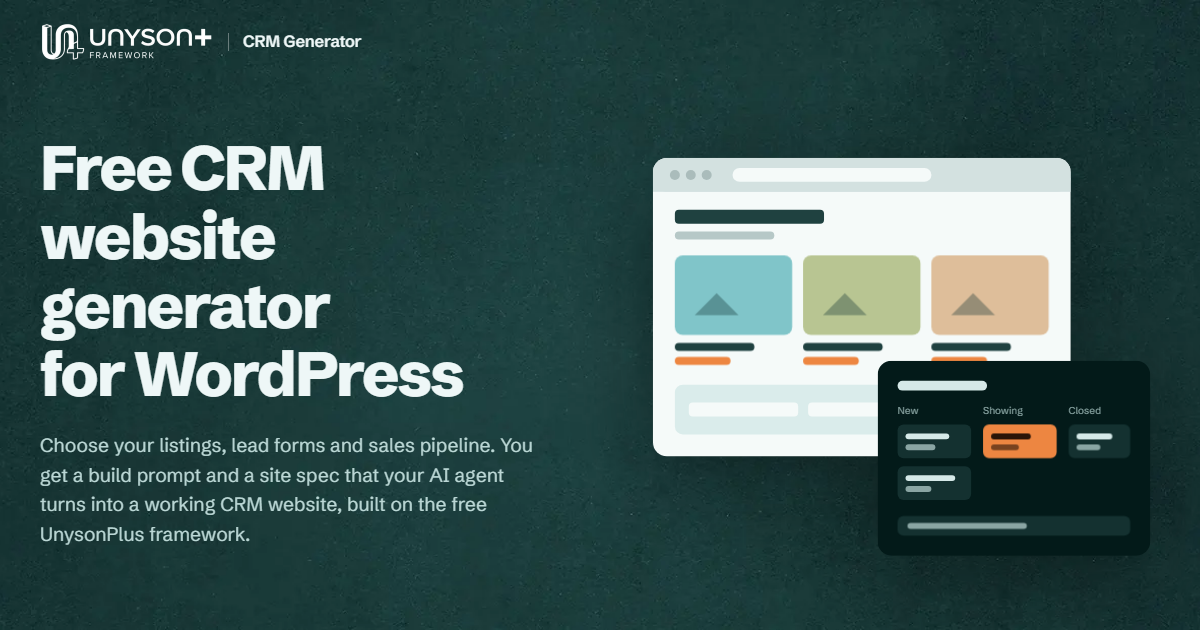
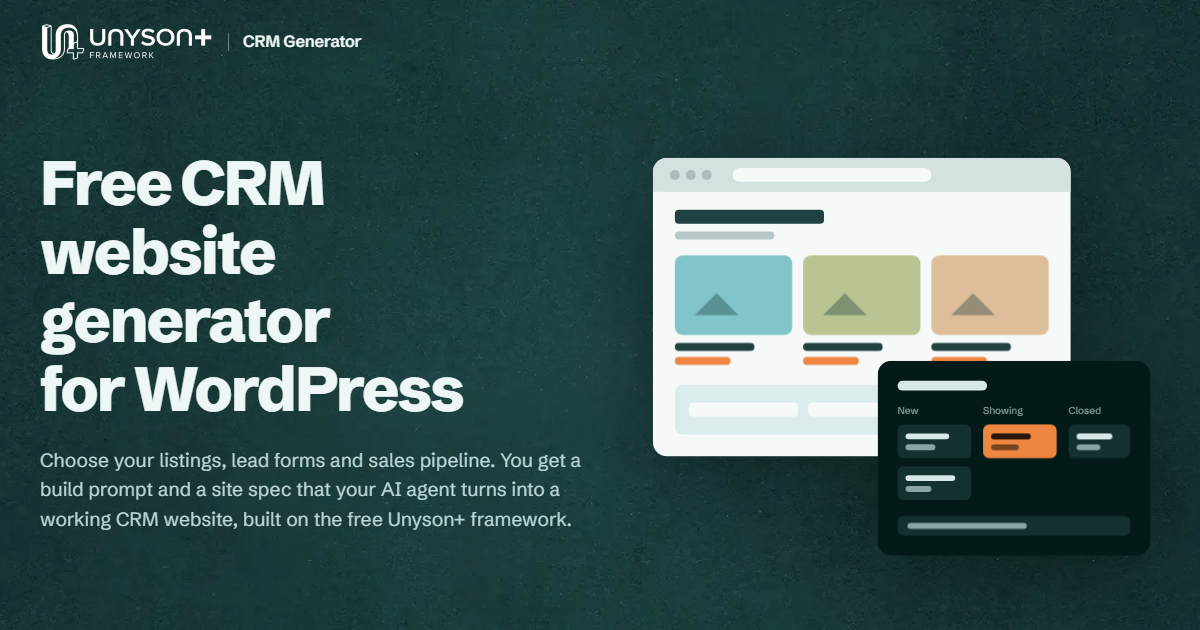
Write the brand as Unyson+ in page text

Changed region(s): [[0.0308, 0.2111, 0.4008, 0.6635], [0.0308, 0.6937, 0.4933, 0.8746]]

diff --git a/index.html b/index.html
@@ -3,14 +3,14 @@
 <head>
 <meta charset="utf-8">
 <meta name="viewport" content="width=device-width, initial-scale=1, viewport-fit=cover">
-<title>Free CRM Website Generator for WordPress | UnysonPlus</title>
+<title>Free CRM Website Generator for WordPress | Unyson+</title>
 <meta name="description" content="Build a free CRM website on WordPress. Pick your industry, listings, lead forms and sales pipeline, then copy a ready-made build prompt for your AI agent. Real estate preset included. No sign-up.">
 <link rel="canonical" href="https://crm.unysonplus.com/">
 <meta name="robots" content="index, follow, max-image-preview:large">
 <meta name="theme-color" content="#183737">
 
 <meta property="og:type" content="website">
-<meta property="og:site_name" content="UnysonPlus">
+<meta property="og:site_name" content="Unyson+">
 <meta property="og:title" content="Free CRM Website Generator for WordPress">
 <meta property="og:description" content="Pick your features, copy the prompt, and let your AI agent build a full CRM website on WordPress. Free, no sign-up.">
 <meta property="og:url" content="https://crm.unysonplus.com/">
@@ -43,7 +43,7 @@
       "url": "https://crm.unysonplus.com/",
       "applicationCategory": "BusinessApplication",
       "operatingSystem": "Any (runs in the browser)",
-      "description": "A free tool that turns your choices (industry, listings, lead forms, sales pipeline, brand) into a site spec and a build prompt. Your AI agent uses them to build a CRM website on WordPress with UnysonPlus.",
+      "description": "A free tool that turns your choices (industry, listings, lead forms, sales pipeline, brand) into a site spec and a build prompt. Your AI agent uses them to build a CRM website on WordPress with Unyson+.",
       "offers": { "@type": "Offer", "price": "0", "priceCurrency": "USD" },
       "isAccessibleForFree": true,
       "publisher": { "@id": "https://crm.unysonplus.com/#org" }
@@ -51,7 +51,7 @@
     {
       "@type": "Organization",
       "@id": "https://crm.unysonplus.com/#org",
-      "name": "UnysonPlus",
+      "name": "Unyson+",
       "url": "https://docs.unysonplus.com/",
       "sameAs": ["https://github.com/UnysonPlus"]
     },
@@ -61,17 +61,17 @@
       "step": [
         { "@type": "HowToStep", "position": 1, "name": "Choose your features", "text": "Pick an industry preset, then choose pages, listing fields, lead forms, pipeline stages and brand colors." },
         { "@type": "HowToStep", "position": 2, "name": "Copy the prompt and spec", "text": "Copy the build prompt and download site-spec.json." },
-        { "@type": "HowToStep", "position": 3, "name": "Let your AI agent build it", "text": "Give both to your AI coding agent together with the free UnysonPlus AI Dev Kit. It installs WordPress features and builds the site." }
+        { "@type": "HowToStep", "position": 3, "name": "Let your AI agent build it", "text": "Give both to your AI coding agent together with the free Unyson+ AI Dev Kit. It installs WordPress features and builds the site." }
       ]
     },
     {
       "@type": "FAQPage",
       "mainEntity": [
-        { "@type": "Question", "name": "Is the CRM website generator really free?", "acceptedAnswer": { "@type": "Answer", "text": "Yes. The generator, the UnysonPlus plugin and theme, and the AI Dev Kit are free. You only pay for your own hosting and, if you use one, your AI agent subscription." } },
+        { "@type": "Question", "name": "Is the CRM website generator really free?", "acceptedAnswer": { "@type": "Answer", "text": "Yes. The generator, the Unyson+ plugin and theme, and the AI Dev Kit are free. You only pay for your own hosting and, if you use one, your AI agent subscription." } },
         { "@type": "Question", "name": "Do I need to know how to code?", "acceptedAnswer": { "@type": "Answer", "text": "No. You fill in a form and copy the result. Your AI agent does the building. After it is built, the site is edited in the WordPress admin with a visual page builder." } },
         { "@type": "Question", "name": "Which AI agents can use the prompt?", "acceptedAnswer": { "@type": "Answer", "text": "Any agent that can read files and run commands on the machine or server hosting WordPress, such as Claude Code, Cursor or Codex. Chat-only assistants can follow the plan, but you will have to carry out the steps yourself." } },
         { "@type": "Question", "name": "Does it connect to the MLS or include IDX?", "acceptedAnswer": { "@type": "Answer", "text": "MLS data requires your own IDX agreement through your brokerage and MLS. The generator supports two routes: manual listings you add yourself, or an IDX provider you already use, whose plugin or widget the agent installs. Leads from either route go into the same CRM." } },
-        { "@type": "Question", "name": "Is the result a WordPress site?", "acceptedAnswer": { "@type": "Answer", "text": "Yes. It is a normal WordPress site built with the free UnysonPlus framework, so you own it, can host it anywhere and can edit everything in the admin." } },
+        { "@type": "Question", "name": "Is the result a WordPress site?", "acceptedAnswer": { "@type": "Answer", "text": "Yes. It is a normal WordPress site built with the free Unyson+ framework, so you own it, can host it anywhere and can edit everything in the admin." } },
         { "@type": "Question", "name": "Can I use it for industries other than real estate?", "acceptedAnswer": { "@type": "Answer", "text": "Real estate is the first preset. More industries are on the roadmap, and the site spec format is the same for all of them." } }
       ]
     }
@@ -103,7 +103,7 @@
       <div class="hero__copy">
         <p class="hero__tag">Free · No sign-up · Runs in your browser</p>
         <h1>Free CRM website generator for WordPress</h1>
-        <p class="hero__lede">Choose your listings, lead forms and sales pipeline. You get a build prompt and a site spec that your AI agent turns into a working CRM website, built on the free UnysonPlus framework.</p>
+        <p class="hero__lede">Choose your listings, lead forms and sales pipeline. You get a build prompt and a site spec that your AI agent turns into a working CRM website, built on the free Unyson+ framework.</p>
         <div class="hero__cta">
           <a class="btn btn--accent" href="#generator">Build my CRM site</a>
           <a class="btn btn--ghost" href="#how">See how it works</a>
@@ -378,7 +378,7 @@
         </li>
         <li>
           <h3>Your AI agent builds the site</h3>
-          <p>Paste the prompt into Claude Code, Cursor, Codex or another coding agent. It reads the free UnysonPlus AI Dev Kit, enables the right features and builds the pages, forms and CRM on your WordPress install.</p>
+          <p>Paste the prompt into Claude Code, Cursor, Codex or another coding agent. It reads the free Unyson+ AI Dev Kit, enables the right features and builds the pages, forms and CRM on your WordPress install.</p>
         </li>
       </ol>
     </div>
@@ -388,7 +388,7 @@
     <div class="wrap inc__grid">
       <div class="inc__intro">
         <h2 id="incTitle">What your CRM website includes</h2>
-        <p>Everything runs on free UnysonPlus features inside WordPress. There are no extra CRM subscriptions, and your leads stay in your own database.</p>
+        <p>Everything runs on free Unyson+ features inside WordPress. There are no extra CRM subscriptions, and your leads stay in your own database.</p>
       </div>
       <dl class="inc__list">
         <div><dt>Property listings</dt><dd>A Properties post type with price, beds, baths, area, map, gallery and virtual tour, plus filters by type, location and features.</dd></div>
@@ -411,11 +411,11 @@
   <section id="faq" class="faq" aria-labelledby="faqTitle">
     <div class="wrap faq__in">
       <h2 id="faqTitle">Questions</h2>
-      <details><summary>Is the CRM website generator really free?</summary><p>Yes. The generator, the UnysonPlus plugin and theme, and the AI Dev Kit are free. You only pay for your own hosting and, if you use one, your AI agent subscription.</p></details>
+      <details><summary>Is the CRM website generator really free?</summary><p>Yes. The generator, the Unyson+ plugin and theme, and the AI Dev Kit are free. You only pay for your own hosting and, if you use one, your AI agent subscription.</p></details>
       <details><summary>Do I need to know how to code?</summary><p>No. You fill in a form and copy the result. Your AI agent does the building. After it is built, the site is edited in the WordPress admin with a visual page builder.</p></details>
       <details><summary>Which AI agents can use the prompt?</summary><p>Any agent that can read files and run commands on the machine or server hosting WordPress, such as Claude Code, Cursor or Codex. Chat-only assistants can follow the plan, but you will have to carry out the steps yourself.</p></details>
       <details><summary>Does it connect to the MLS or include IDX?</summary><p>MLS data requires your own IDX agreement through your brokerage and MLS. The generator supports two routes: manual listings you add yourself, or an IDX provider you already use, whose plugin or widget the agent installs. Leads from either route go into the same CRM.</p></details>
-      <details><summary>Is the result a WordPress site?</summary><p>Yes. It is a normal WordPress site built with the free UnysonPlus framework, so you own it, can host it anywhere and can edit everything in the admin.</p></details>
+      <details><summary>Is the result a WordPress site?</summary><p>Yes. It is a normal WordPress site built with the free Unyson+ framework, so you own it, can host it anywhere and can edit everything in the admin.</p></details>
       <details><summary>Can I use it for industries other than real estate?</summary><p>Real estate is the first preset. More industries are on the <a href="https://docs.unysonplus.com/guides/crm-generator#roadmap">roadmap</a>, and the site spec format is the same for all of them.</p></details>
     </div>
   </section>
@@ -430,7 +430,7 @@
 
 <footer class="foot">
   <div class="wrap foot__in">
-    <p>Made by <a href="https://docs.unysonplus.com/">UnysonPlus</a>, the free WordPress page builder framework.</p>
+    <p>Made by <a href="https://docs.unysonplus.com/">Unyson+</a>, the free WordPress page builder framework.</p>
     <nav aria-label="Footer">
       <a href="https://docs.unysonplus.com/guides/crm-generator">Generator guide</a>
       <a href="https://github.com/UnysonPlus/UnysonPlus-AI-Dev-Kit">AI Dev Kit</a>

diff --git a/assets/app.js b/assets/app.js
@@ -285,9 +285,9 @@
     var out = [];
     function p() { out.push(Array.prototype.join.call(arguments, '')); }
 
-    p('# Build a real estate CRM website for ', b.name, ' with UnysonPlus');
+    p('# Build a real estate CRM website for ', b.name, ' with Unyson+');
     p('');
-    p('You are building a complete real estate website with a built-in CRM on WordPress, using the free UnysonPlus framework. Everything I chose is in the site spec at the end of this prompt. Save it as `site-spec.json` in the project folder and treat it as the source of truth; this prompt explains the order of work and the rules.');
+    p('You are building a complete real estate website with a built-in CRM on WordPress, using the free Unyson+ framework. Everything I chose is in the site spec at the end of this prompt. Save it as `site-spec.json` in the project folder and treat it as the source of truth; this prompt explains the order of work and the rules.');
     p('');
     p('## About the business');
     p('- Name: ', b.name, ' (', { solo: 'solo agent', team: 'agent team', brokerage: 'brokerage' }[b.type] || b.type, ')');
@@ -304,7 +304,7 @@
     else if (s.wp === 'host') p('WordPress is on my web host. Ask me how you can reach it (SSH with WP-CLI is best). Never write passwords or keys into project files.');
     else p('WordPress is not installed yet. Help me set up a local WordPress install first, then continue. Use a fresh install with no other page builder.');
     p('1. Get the AI Dev Kit: clone ', KIT_URL, '. Read `AGENTS.md` first, then `docs/site-build-protocol.md`. This is a **fresh build** (there is no source site to copy), so follow the fresh-build path. Before using any element, extension or option, look it up in the kit\'s `docs/` folder instead of guessing.');
-    p('2. Install the UnysonPlus plugin from ', PLUGIN_ZIP, ' and the parent theme from ', THEME_REPO, ' (latest release; the theme folder must be named `unysonplus-theme`). Create a child theme for this site from the kit\'s child-theme starter and activate it.');
+    p('2. Install the Unyson+ plugin from ', PLUGIN_ZIP, ' and the parent theme from ', THEME_REPO, ' (latest release; the theme folder must be named `unysonplus-theme`). Create a child theme for this site from the kit\'s child-theme starter and activate it.');
     p('3. In **Unyson+ → Extensions**, enable: Post Types, Custom Fields, Forms, Newsletter CRM and SEO. Install any that are missing through the Extensions manager.');
     p('');
 
@@ -373,7 +373,7 @@
 
     p('## Rules');
     p('- Never invent facts about the business: no made-up awards, sales numbers, years in business, reviews or team members. Use clearly marked placeholders such as [Add your sales record] instead.');
-    p('- Use UnysonPlus features before adding any plugin. The only third-party plugin allowed is the IDX provider\'s, if one is chosen.');
+    p('- Use Unyson+ features before adding any plugin. The only third-party plugin allowed is the IDX provider\'s, if one is chosen.');
     p('- Ask before deleting or overwriting anything you did not create.');
     p('- If the kit\'s docs and this prompt disagree about how a feature works, the docs win; tell me what you changed.');
     p('');

diff --git a/README.md b/README.md
@@ -6,7 +6,7 @@ A free, browser-only tool at **https://crm.unysonplus.com/** that turns a few ch
 - **a build prompt** to paste into an AI coding agent, and
 - **`site-spec.json`**, a structured description of the site (also embedded at the end of the prompt).
 
-The agent then builds the site on WordPress with the free UnysonPlus framework and its AI Dev Kit.
+The agent then builds the site on WordPress with the free Unyson+ framework and its AI Dev Kit.
 Real estate is the first industry preset.
 
 Guide and roadmap: https://docs.unysonplus.com/guides/crm-generator
